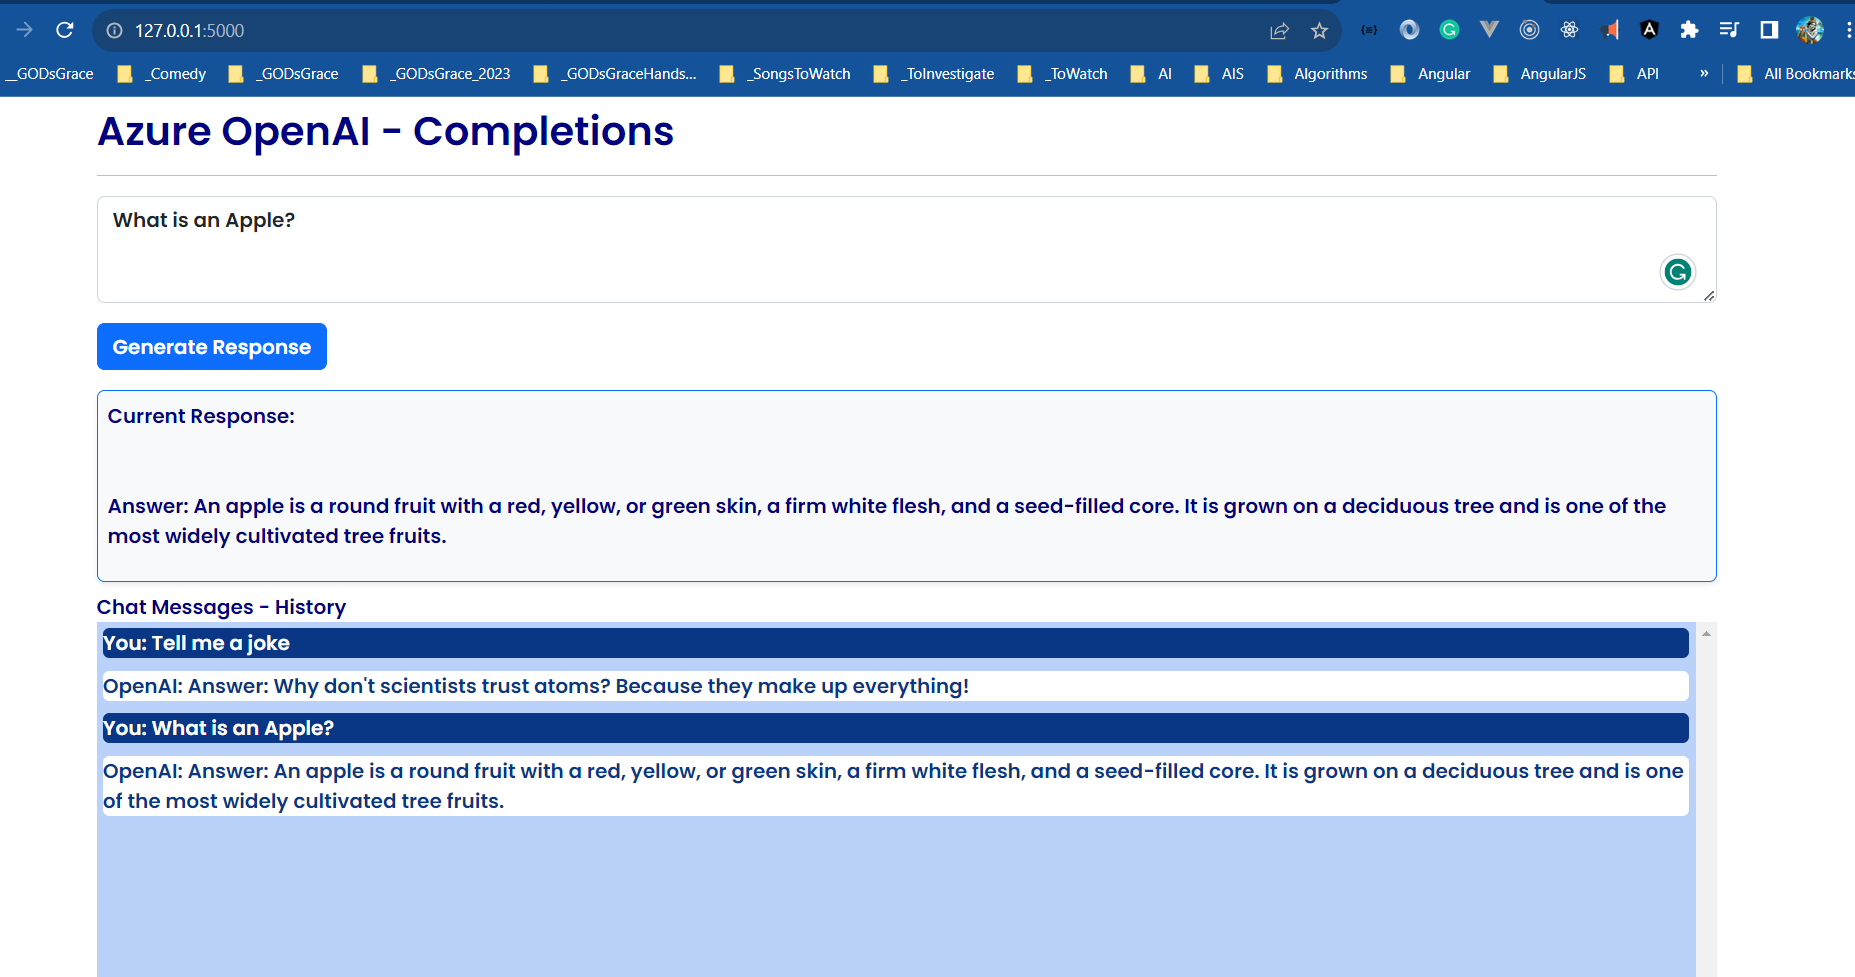
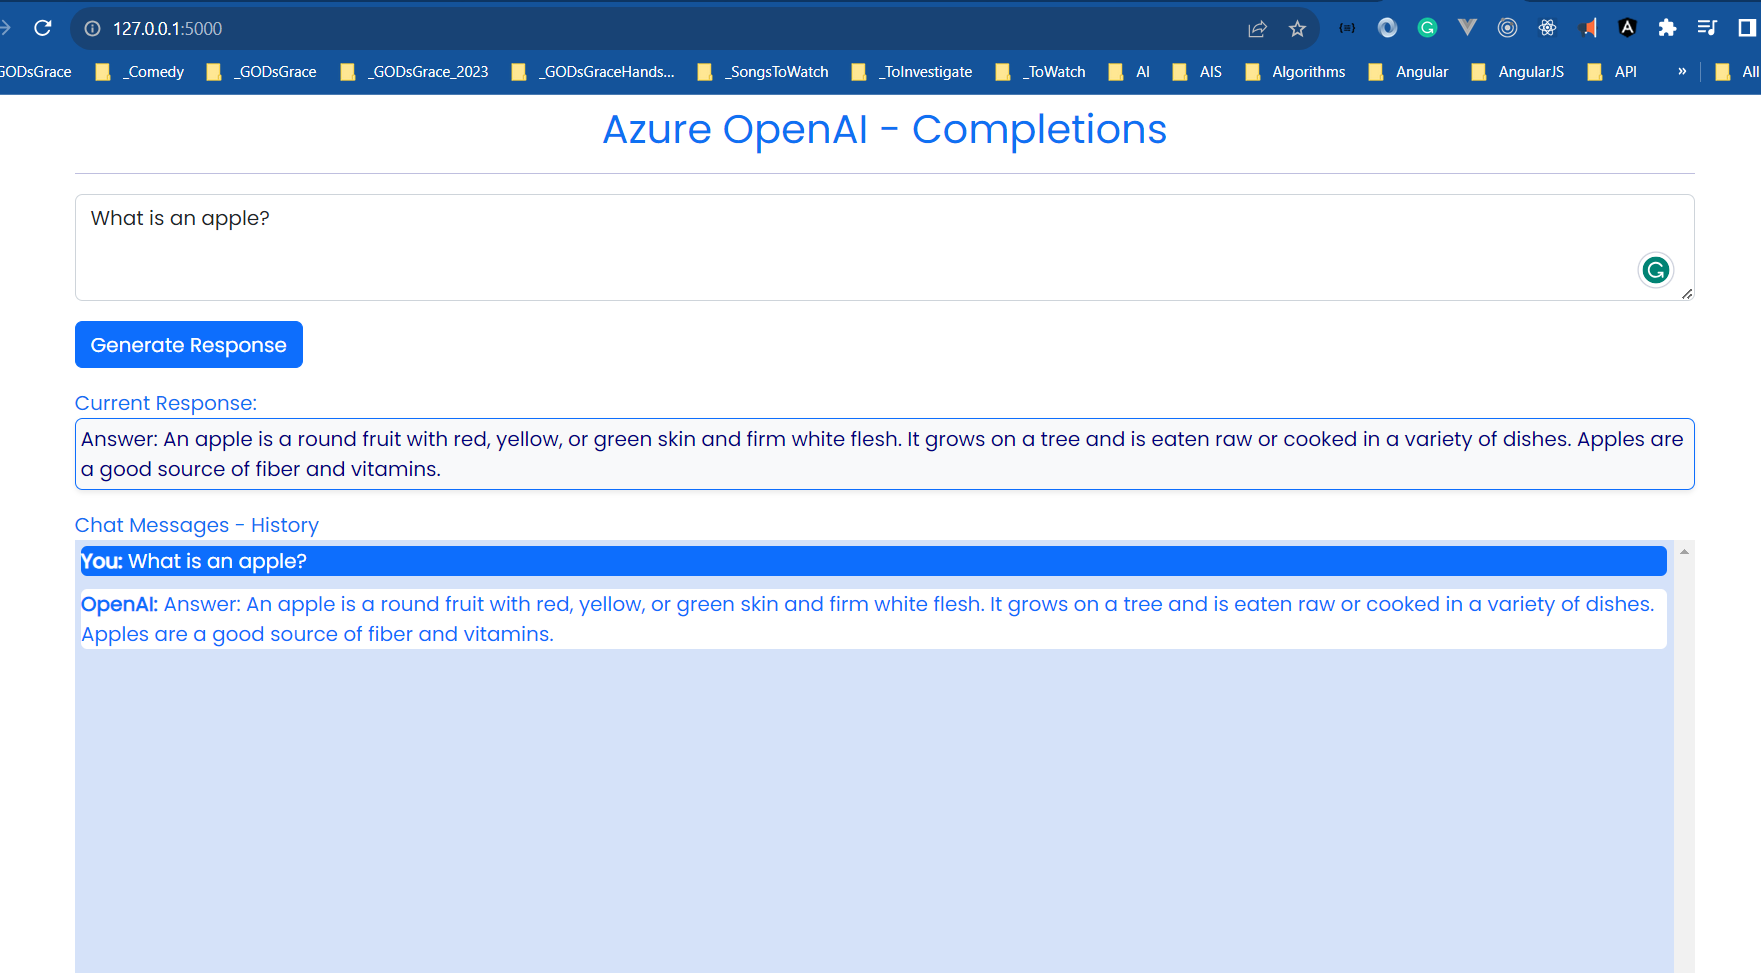
Swamy/17oct work (#6)
* Images

* Create S3.md

* Flask Azure Open AI

* Update styles.css

* Update SimpleChatGPT_Clone.png

* Update Program.cs

diff --git a/src/S2/a3-completion-cs/CompletionDemo/CompletionDemo/Program.cs b/src/S2/a3-completion-cs/CompletionDemo/CompletionDemo/Program.cs
@@ -19,12 +19,15 @@ OpenAIClient client = new(new Uri(_configuration["CompletionConfiguration:OPEN_A
                             new AzureKeyCredential(Env.GetEnvironmentVariable("OPENAI_API_KEY")!));
 
 const string prompt = "What are the top 10 countries with highest populations are along with their population count and capital city : \n";
+var promptWithoutDesiredOutput = "What are the top 10 countries with highest populations are along with their population count and capital city : \n";
+var promptWithDesiredOutput = "Instructions: Please complete the below\n\nInput: \"\"\"What are the top 2 countries with highest populations are along with their population count and capital city :\"\"\"\n\nDesired Output: JSON Array \n\nOutput: \n";
+var promptWithDesiredOutput1 = "Instructions: Please complete the below\n\nInput: \"\"\"What are the top 2 countries with highest populations are along with their population count and capital city :\"\"\"\n\nDesired Output: XML \n\nOutput: \n";
 
 Response<Completions> completionsResponse = await client.GetCompletionsAsync(
     deploymentOrModelName: _configuration["CompletionConfiguration:ModelDeploymentName"]!,
     new CompletionsOptions()
     {
-        Prompts = { prompt },
+        Prompts = { prompt, promptWithoutDesiredOutput, promptWithDesiredOutput, promptWithDesiredOutput1 },
         Temperature = (float)1,
         MaxTokens = 120,
         NucleusSamplingFactor = (float)0.5,
